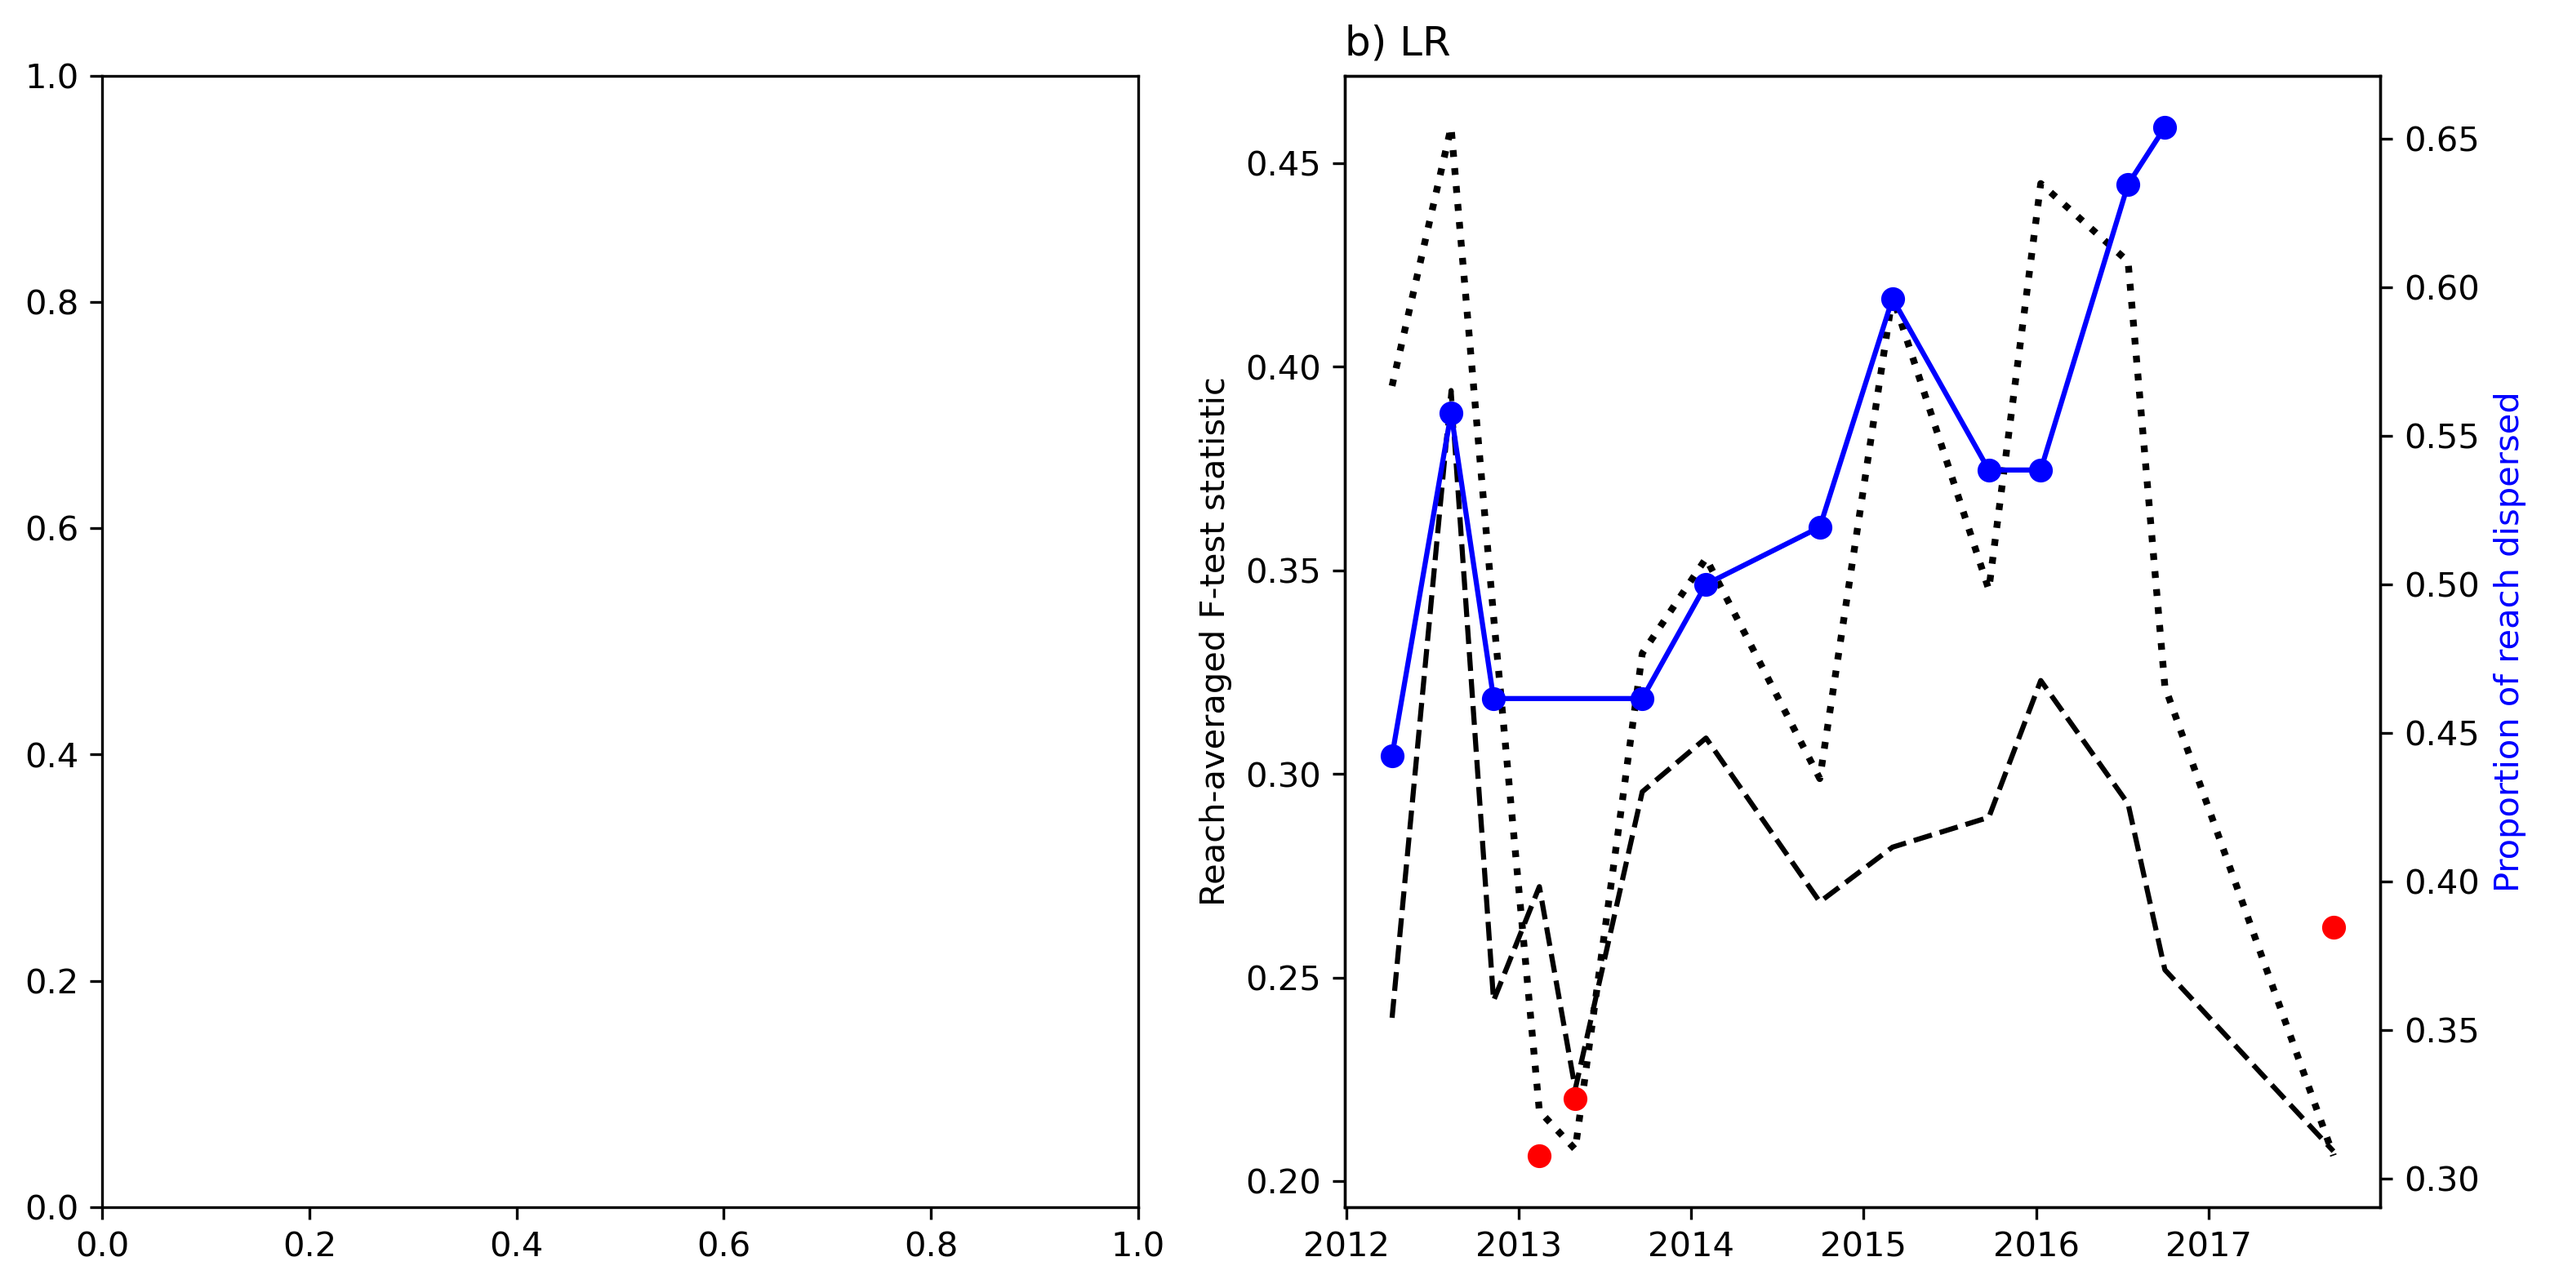
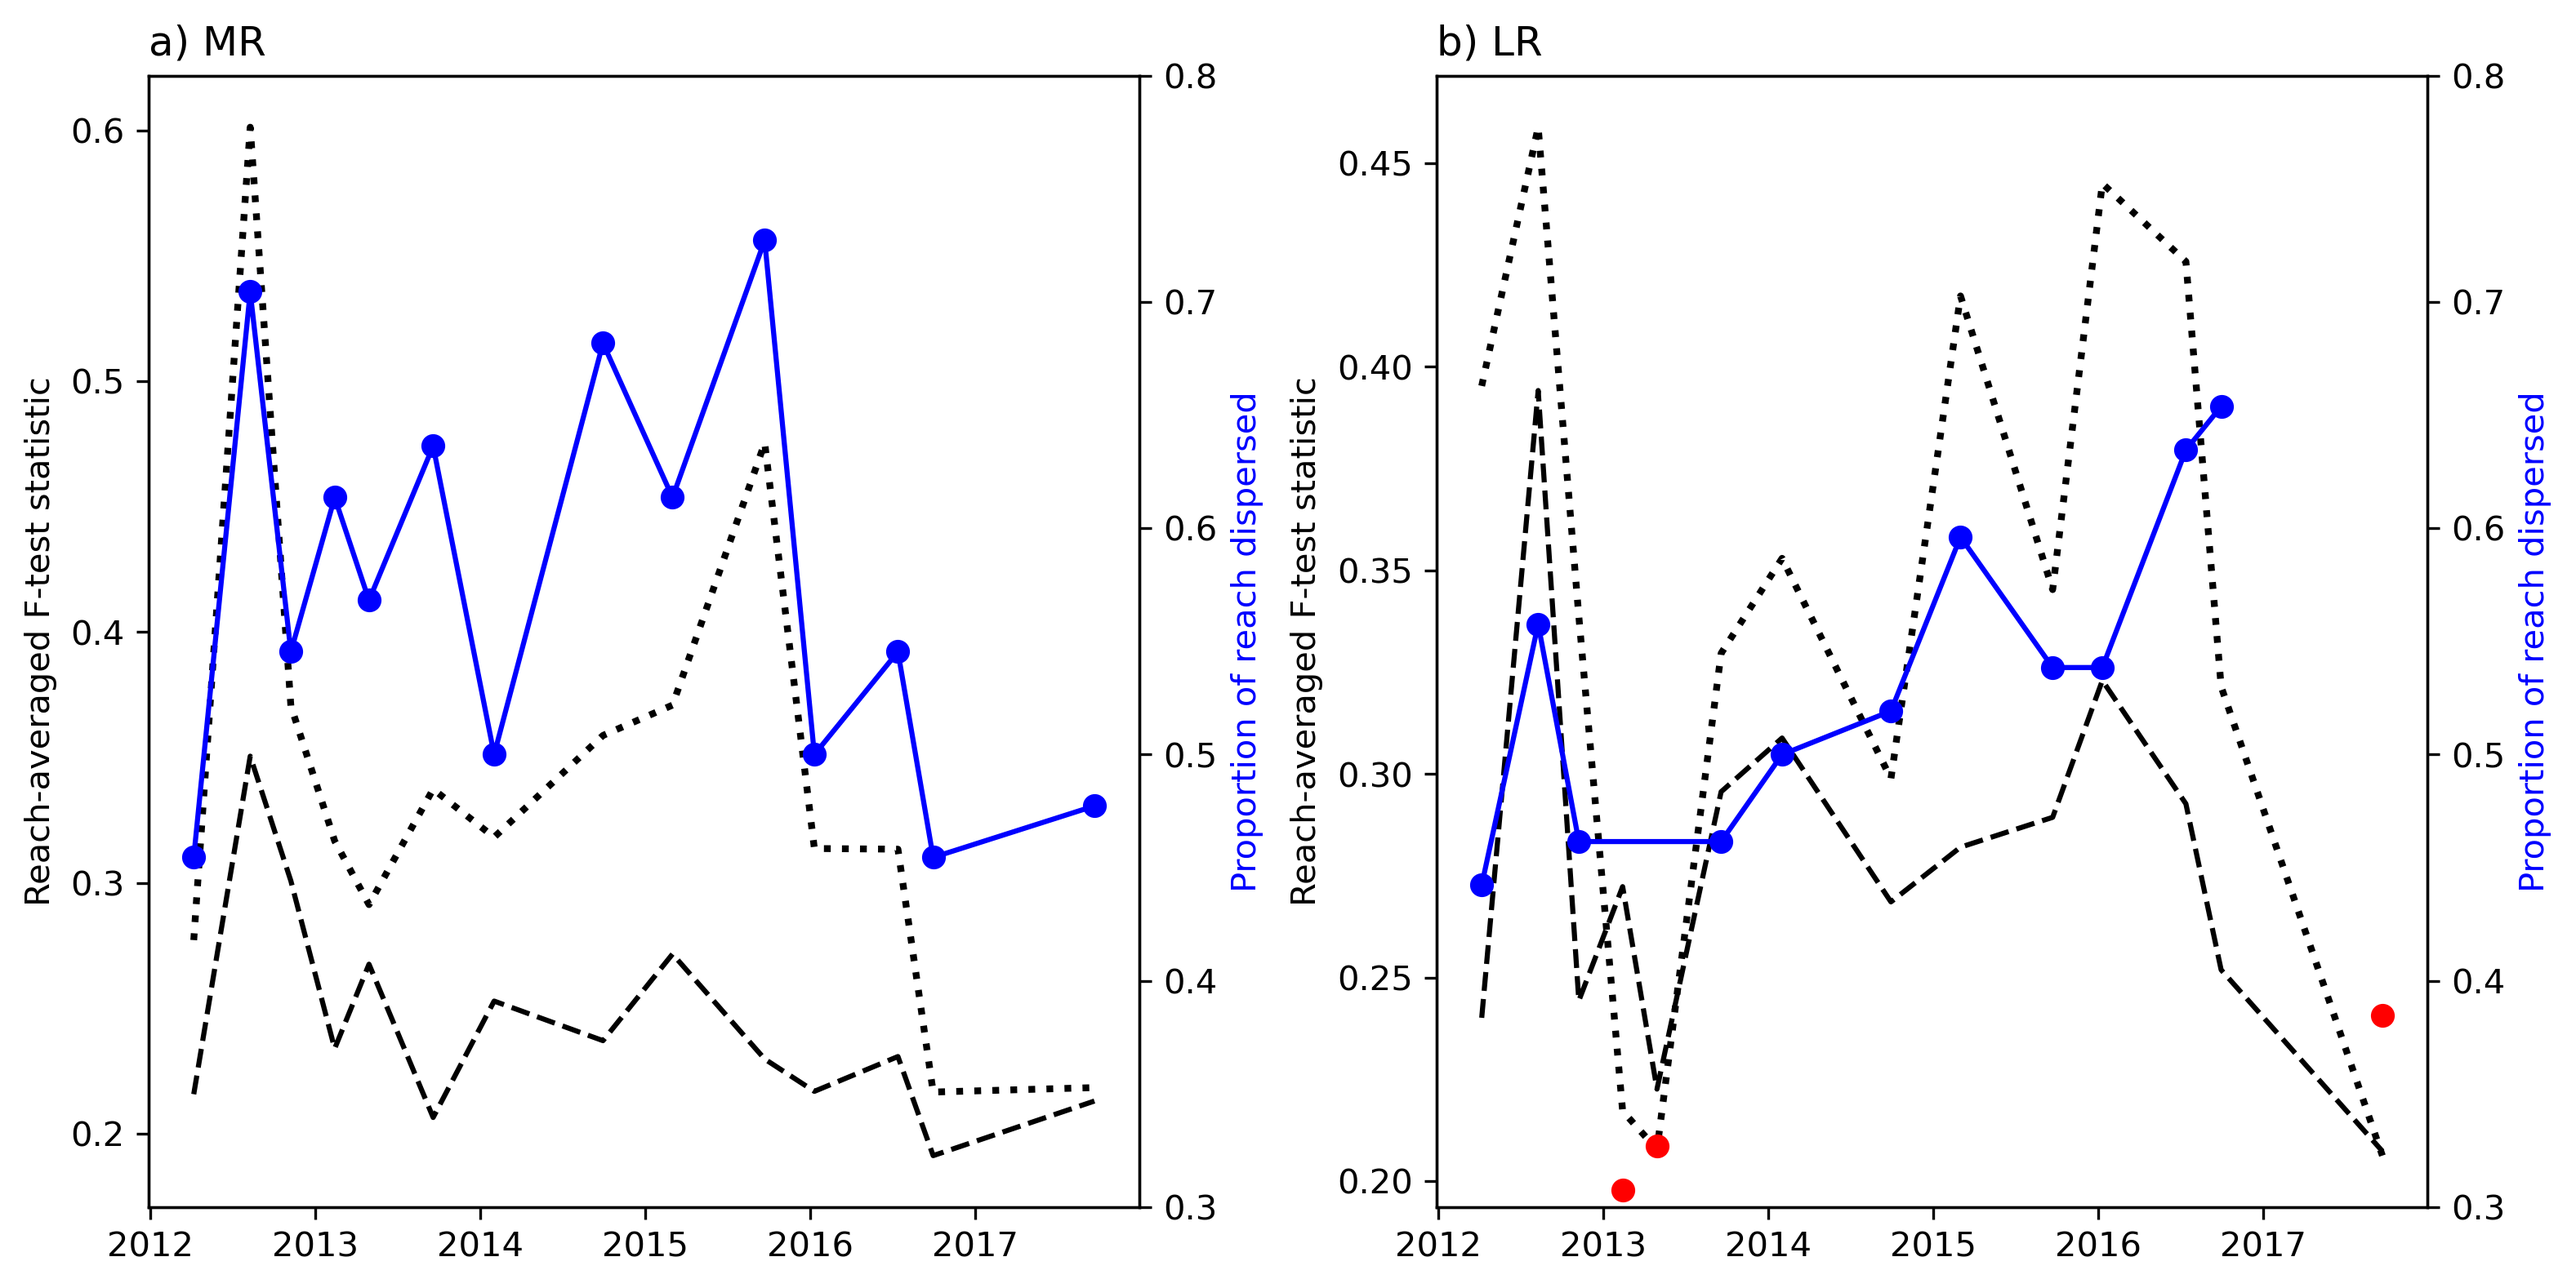
dispersion calcs finished

diff --git a/measure_mode1.py b/measure_mode1.py
@@ -843,6 +843,37 @@ LR_GIR = np.array(LR_GIR).reshape(len(times),len(LRbudget_reaches_redo))
 
 
 
+with np.load('../results/MR_spatial_metrics.npz', allow_pickle=True) as f:
+    MR_GIO = f['MR_GIO']
+    MR_GIR = f['MR_GIR']
+    MR_CLUSTERED = f['MR_CLUSTERED']
+    MR_GTEST = f['MR_GTEST']
+    MR_FTEST=f['MR_FTEST']
+    MR_FIO=f['MR_FIO']
+    MR_FIR=f['MR_FIR']
+    MR_DISPERSED=f['MR_DISPERSED']
+
+
+# FMR=[]
+# for k in MR_FTEST:
+#     try:
+#         FMR.append(k[4][1])
+#     except: 
+#         FMR.append(k[6][1])
+
+MR_DISPERSED = np.array(MR_DISPERSED).reshape(len(times),len(MRbudget_reaches_redo))
+MR_CLUSTERED = np.array(MR_CLUSTERED).reshape(len(times),len(MRbudget_reaches_redo))
+
+# MR_FTEST = np.array(MR_FTEST).reshape(len(times),len(MRbudget_reaches_redo))
+MR_FIO = np.array(MR_FIO).reshape(len(times),len(MRbudget_reaches_redo))
+MR_FIR = np.array(MR_FIR).reshape(len(times),len(MRbudget_reaches_redo))
+
+# MR_GTEST = np.array(MR_GTEST).reshape(len(times),len(MRbudget_reaches_redo))
+MR_GIO = np.array(MR_GIO).reshape(len(times),len(MRbudget_reaches_redo))
+MR_GIR = np.array(MR_GIR).reshape(len(times),len(MRbudget_reaches_redo))
+
+
+
 # with np.load('summaries/Wood_time_series.npz', allow_pickle=True) as f:
 #     LR_BRarr = f['LR_BRarr']
 #     MR_BRarr = f['MR_BRarr']
@@ -864,8 +895,26 @@ LR_GIR = np.array(LR_GIR).reshape(len(times),len(LRbudget_reaches_redo))
 
 fig, ax = plt.subplots(nrows=1, ncols=2)
 fig.set_size_inches(12,6)
-plt.subplots_adjust(wspace=0.2, hspace=0.2)
+plt.subplots_adjust(wspace=0.3, hspace=0.3)
 
+prop_disp = np.nansum(MR_DISPERSED,axis=1)/len(MRbudget_reaches_redo)
+y = np.nanmean(MR_FIO,axis=-1)
+y2 = np.nanmean(MR_FIR,axis=-1)
+
+ax[0].plot(dt, y, 'k:', lw=2, label='Observed')
+ax[0].plot(dt, y2, 'k--', label='Random')
+ax[0].set_ylabel('Reach-averaged F-test statistic')
+ax[0].set_title('a) MR', loc='left');
+# ax[1].legend()
+
+ax20 = ax[0].twinx()
+# ax2.plot(dt, prop_disp,'b')
+ind = np.where(y>y2)[0]
+ax20.plot(dt[ind], prop_disp[ind],'b-o')
+ind = np.where(y<y2)[0]
+ax20.plot(dt[ind], prop_disp[ind],'ro')
+ax20.set_ylabel('Proportion of reach dispersed', color='b')
+ax20.set_ylim(.3,.8)
 
 prop_disp = np.nansum(LR_DISPERSED,axis=1)/len(LRbudget_reaches_redo)
 y = np.nanmean(LR_FIO,axis=-1)
@@ -884,9 +933,7 @@ ax2.plot(dt[ind], prop_disp[ind],'b-o')
 ind = np.where(y<y2)[0]
 ax2.plot(dt[ind], prop_disp[ind],'ro')
 ax2.set_ylabel('Proportion of reach dispersed', color='b')
-
-
-
+ax2.set_ylim(.3,.8)
 # plt.show()
 plt.savefig("summaries/dispersion_stats.png", dpi=300, bbox_inches="tight")
 
